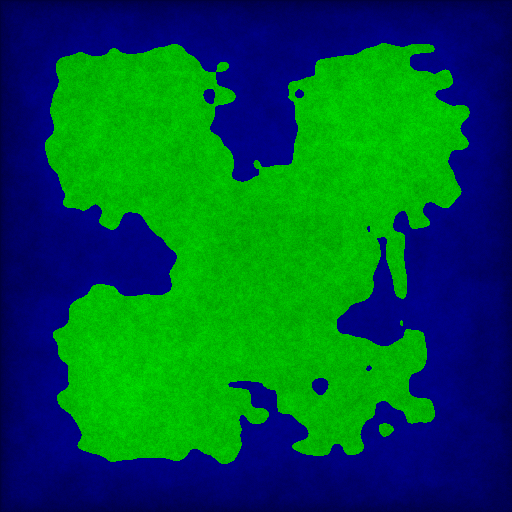
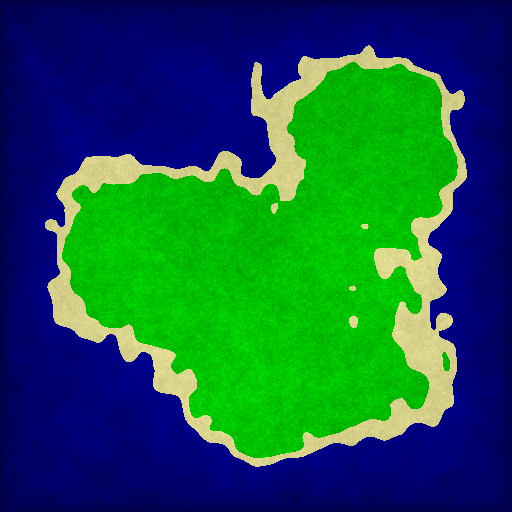
Terrain add to client

diff --git a/client/Selector.js b/client/Selector.js
@@ -1,12 +1,18 @@
 let playerSelectors = require('./selectors/player.js')
 let userSelectors = require('./selectors/user.js')
 let buildingSelectors = require('./selectors/building.js')
+let terrainSelectors = require('./selectors/terrain.js')
 let miscSelectors = require('./selectors/misc.js')
 
 module.exports = function (deps) {
     let getState = deps.getState
     
-    let originalSelectors = Object.assign({}, playerSelectors, userSelectors, buildingSelectors, miscSelectors)
+    let originalSelectors = Object.assign({},
+    	playerSelectors,
+    	userSelectors,
+    	buildingSelectors,
+    	terrainSelectors,
+    	miscSelectors)
     let curriedSelectors = {}
     
     Object.keys(originalSelectors).forEach(sel => {

diff --git a/client/logic/Terrain.js b/client/logic/Terrain.js
@@ -1,0 +1,22 @@
+
+module.exports = function (deps) {
+    let setColor = deps.setColor
+    let ctx = deps.ctx
+
+	return {
+        run,
+        draw
+    }
+    function run(delta) {
+ 	}
+ 	function draw() {
+ 		let terrain = store.selector.getTerrain();
+ 		for(let y = 0; y < terrain.h; y++) {
+ 			for(let x = 0; x < terrain.w; x++) {
+ 				let pixel = terrain.m[x + y * w]
+ 				setColor(color)
+ 				ctx.fillRect(x * 5, y * 5, 5, 5)
+ 			}
+ 		}
+ 	}
+}

diff --git a/apps/terrain/app.js b/apps/terrain/app.js
@@ -1,20 +1,14 @@
 
-let dumpImage = require("./dumpImage.js")
+//let dumpImage = require("./dumpImage.js")
 let genTerrain = require("./genTerrain.js")
-
 let terrain = genTerrain()
-dumpImage(terrain)
+//dumpImage(terrain)
 
-/*
 let socket = io('http://192.168.1.19:8081')
-
-const DUMMY_TERRAIN = [
-]
 
 socket.on('requestPlayer', () => {
 	socket.emit('command', {
 		command: 'setTerrain',
-		terrain: DUMMY_TERRAIN,
+		terrain: terrain,
 	})
 })
-*/

diff --git a/client/Store.js b/client/Store.js
@@ -15,11 +15,12 @@ module.exports = function () {
             players: {},
             user: {},
             houses: {},
-            persons: {}
+            persons: {},
+            terrain: {},
         },
         actions: {},
         selector,
-        setter
+        setter,
     }
     
     function getState() {

diff --git a/apps/terrain/genTerrain.js b/apps/terrain/genTerrain.js
@@ -90,7 +90,7 @@ function genTerrain(seed) {
 
 	return maps.primary.zip(maps.secondary, (x, y, p, s) => {
 		return createType(p, s, seaLvl)
-	})
+	}).toJS()
 }
 
 module.exports = genTerrain

diff --git a/client/game.js b/client/game.js
@@ -28,7 +28,8 @@ window.onkeyup = function (event) {
 
 let core = Logic({
     store,
-    keysPressed
+    keysPressed,
+    ctx,
 })
 
 function run(state, lastRun) {

diff --git a/apps/terrain/utils/matrix.js b/apps/terrain/utils/matrix.js
@@ -49,6 +49,13 @@ function Matrix(w, h) {
 		}
 		return str
 	}
+	function toJS() {
+		return {
+			w: w,
+			h: h,
+			m: m,
+		}
+	}
 	return {
 		getW,
 		getH,

diff --git a/client/logic/Logic.js b/client/logic/Logic.js
@@ -1,4 +1,5 @@
 let modules = [
+    require('./Terrain.js'),
     require('./Persons.js'),
     require('./Houses.js'),
     require('./Players.js'),

diff --git a/client/actions/terrain.js b/client/actions/terrain.js
@@ -1,0 +1,6 @@
+
+module.exports = {
+	setTerrain(state, {terrain}, {selector, setter}) {
+		return setter.setTerrain(state, terrain)
+	}
+}

diff --git a/client/setters/terrain.js b/client/setters/terrain.js
@@ -1,0 +1,7 @@
+
+module.exports = {
+	setTerrain(state, terrain) {
+		state.terrain = terrain
+		return state
+	}
+}

diff --git a/client/selectors/terrain.js b/client/selectors/terrain.js
@@ -1,0 +1,6 @@
+
+module.exports = {
+    getTerrain(state) {
+    	return state.terrain
+    }
+}
